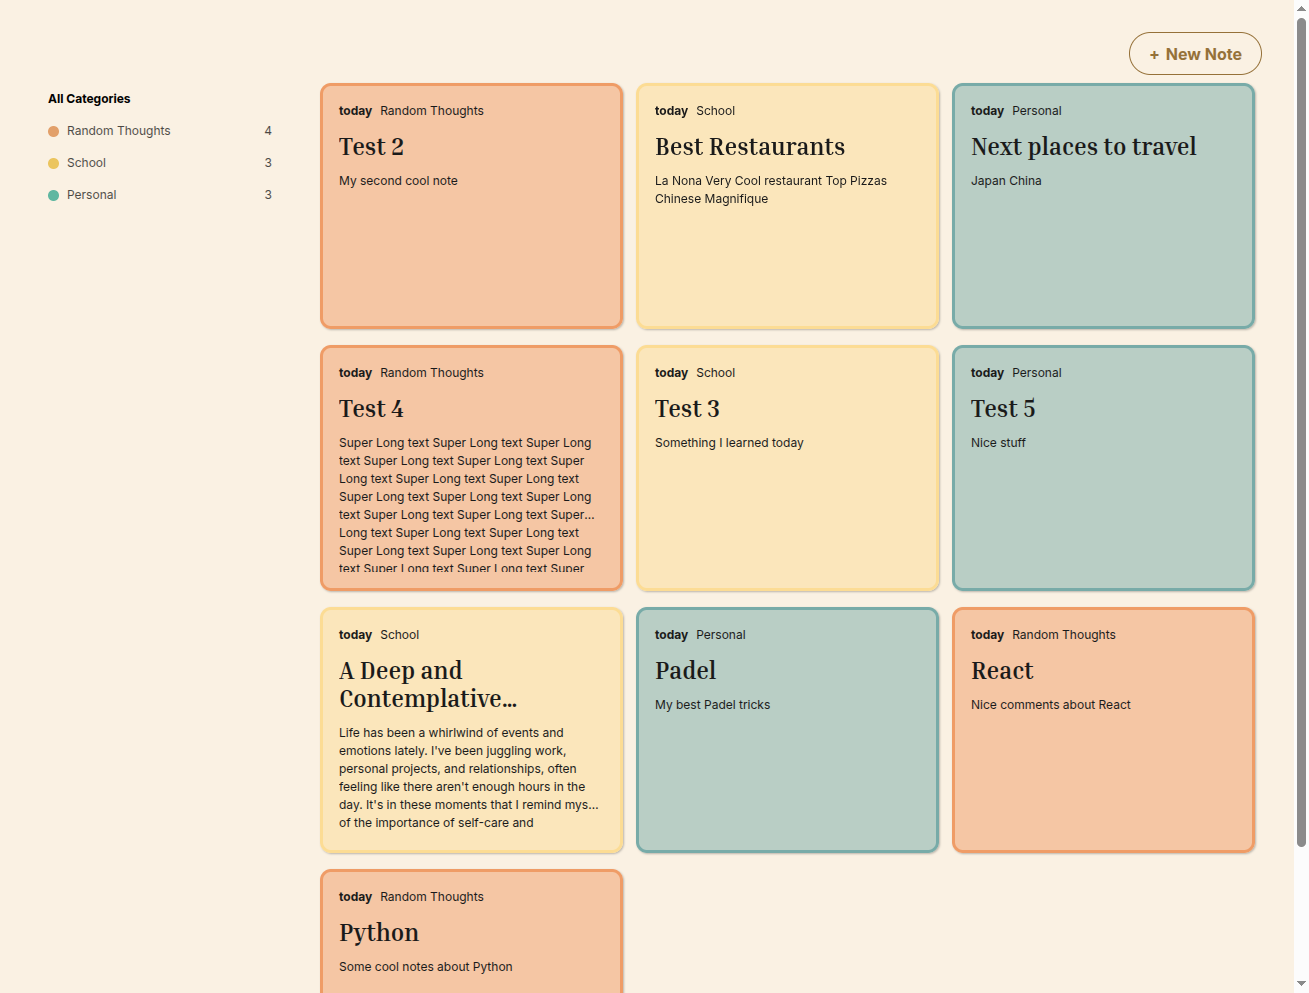
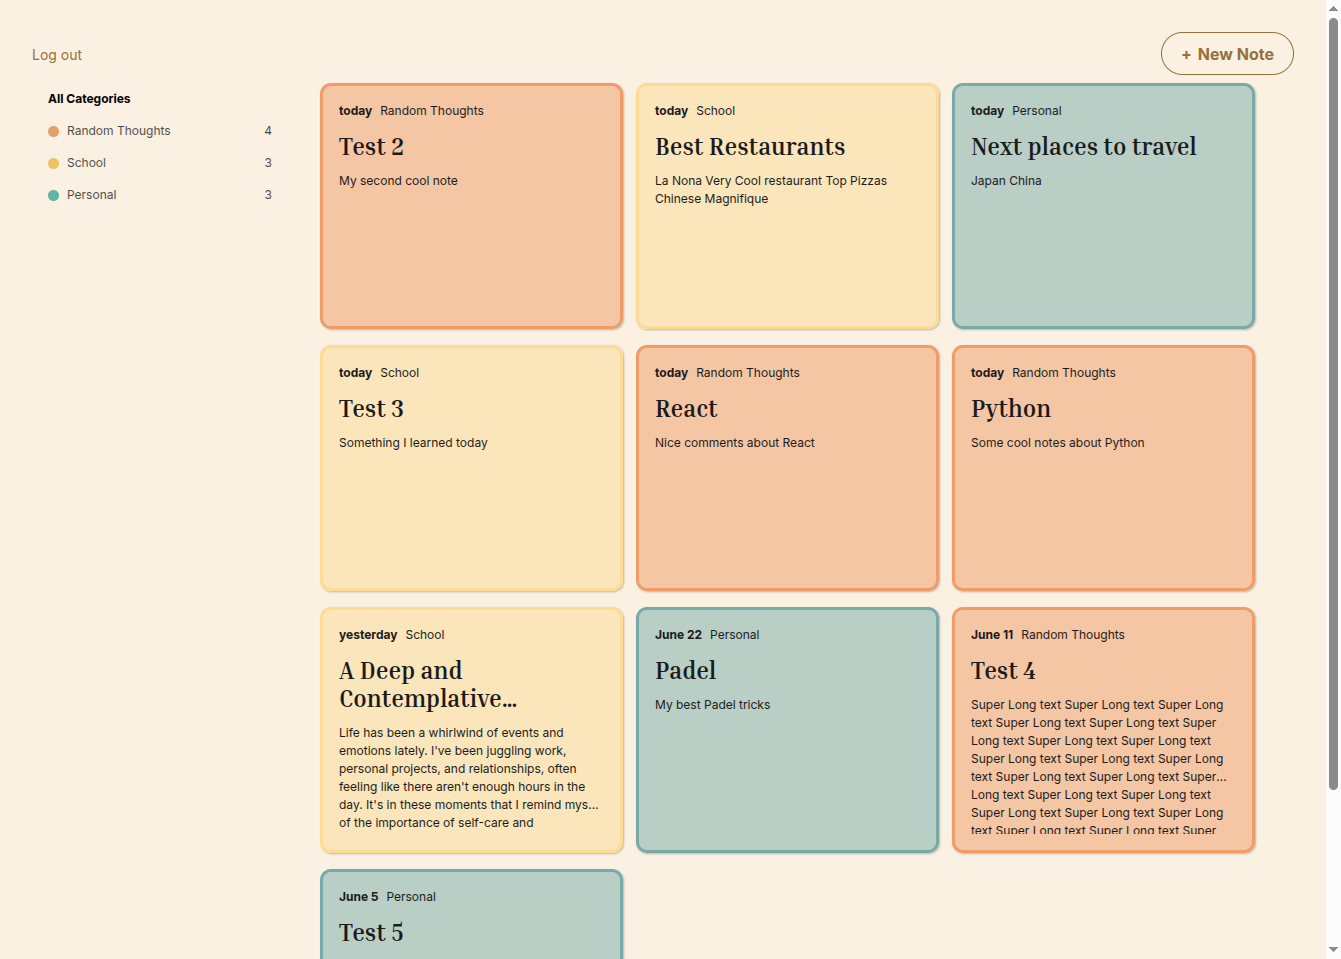
Add project planning section to Readme

diff --git a/README.md b/README.md
@@ -21,6 +21,7 @@ Framework** backend and a **Next.js (App Router)** frontend.
 - [Environment variables](#environment-variables)
 - [Tests](#tests)
 - [Deployment](#deployment)
+- [Project planning](#project-planning)
 - [How AI was used](#how-ai-was-used)
 - [Project structure](#project-structure)
 
@@ -233,29 +234,53 @@ needed between Vercel and Railway.
 
 ---
 
+## Project planning
+
+I ran a discovery and planning phase **before writing any code** and captured the
+outcome in [`PLAN.md`](PLAN.md). The intent was to remove ambiguity up front so
+implementation could move quickly and stay focused on the right things.
+
+**1. Requirements analysis.** I extracted requirements from three sources: the
+written challenge brief, the feature-walkthrough video, and the Figma design file.
+Open questions were resolved into explicit, written decisions rather than discovered mid-build.
+
+**2. Locked scope & architecture.** after some research and discussions with AI, I took the
+architecture decisions: plain-text notes, three fixed auto-seeded categories,
+**httpOnly-cookie JWT auth via a BFF**, split Django settings, a per-route Next.js
+rendering strategy, and a "high-fidelity, token-accurate" design target. These are
+recorded as *locked decisions* in `PLAN.md` so the rationale is traceable.
+
+**3. Incremental roadmap.** Work was sequenced into a **detailed plan**, reviewable
+milestone: backend models → API → frontend auth → notes grid → editor → polish → docs.
+I reviewed and signed off each increment before starting the next.
+
+---
+
 ## How AI was used
 
-This project was built with **Claude (Claude Code)** as a pair-programming agent.
-AI was used throughout, with the developer directing, reviewing, and approving every
-step:
+I used AI (**Claude Code**) as an execution accelerator working under my direction. I owned the requirements
+interpretation, the architecture, the technical decisions, the code review, and the
+final approval of every change; AI produced first drafts and handled mechanical
+implementation, which I reviewed, corrected, and accepted.
 
-- **Planning.** Produced a locked, day-by-day implementation plan (`PLAN.md`) from
-  the challenge brief and Figma file before any code was written.
-- **Design-to-code via the Figma MCP.** Pulled exact design tokens and per-screen
-  layout (`get_design_context` / `get_metadata`) directly from the Figma file rather
-  than approximating, and downloaded illustration assets from the design.
-- **Implementation.** Scaffolded the Django models/serializers/viewsets and the
-  Next.js routes, components, BFF auth, and autosave, following the conventions in
-  `CLAUDE.md` (e.g. App Router specifics, Tailwind v4 `@theme`, `next/font`).
-- **Test coverage.** Wrote the backend `APITestCase` suite and the frontend Vitest
-  suite.
-- **Deployment & debugging.** Diagnosed deploy issues against the live
-  services — Railway port-binding, a missing `start.sh` in the built image, and a
-  `NEXT_PUBLIC_API_URL` misconfiguration — by probing the deployed endpoints and
-  reading logs.
+Where AI was applied — always against decisions and constraints I set:
 
-All Git commits are authored by the repository owner and were manually reviewed
-before committing.
+- **Requirements capture.** I had the feature-walkthrough video transcribed
+  ([turboscribe.ai](https://turboscribe.ai)) and ran the brief + Figma through a
+  planning pass, then made the scope and architecture calls myself (`PLAN.md`).
+- **Brainstorming options.** Used AI to ask about deployment options.
+- **Design-to-code via the Figma MCP.** I directed the use of the Figma MCP to pull
+  exact tokens and per-screen layout (`get_design_context` / `get_metadata`) instead
+  of approximating, and reviewed every screen against the design.
+- **Implementation.** I specified the architecture and the project conventions in
+  `CLAUDE.md`; AI scaffolded the Django and Next.js code to those specs under review.
+- **Testing.** I defined what needed coverage — user isolation, autosave/debounce,
+  the BFF seam, the end-to-end happy path — and reviewed the resulting backend
+  `APITestCase` and frontend Vitest + Playwright suites.
+- **Deployment & debugging.** I drove the diagnosis of the production issues
+  (Railway wrong port, a missing `start.sh` in the built image), using AI to probe endpoints and read logs
+  while I decided the fixes.
+
 
 ---
 